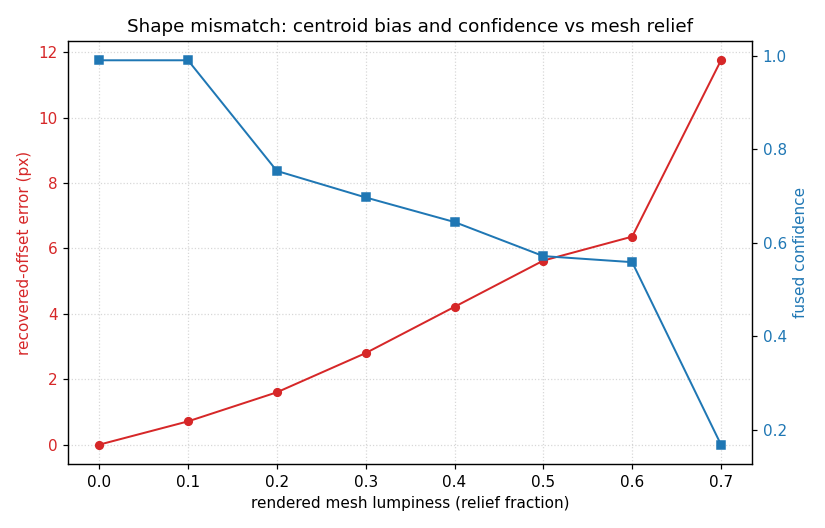
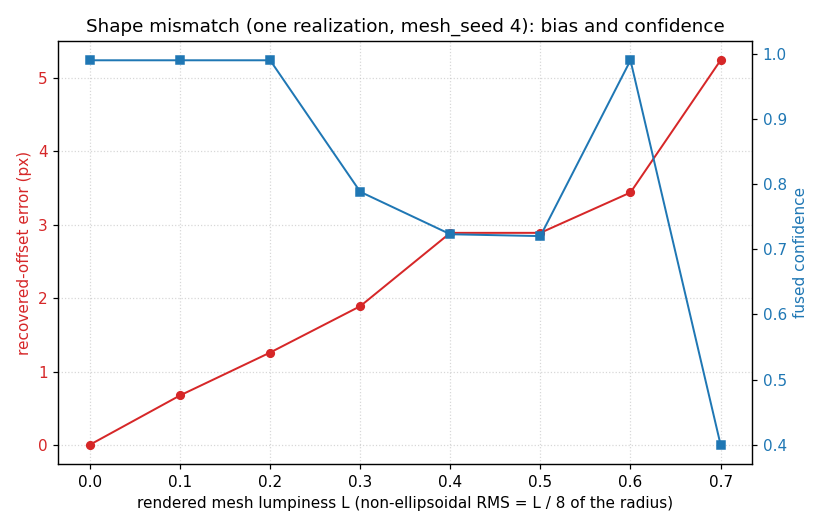
test(sim): name the realization in mesh figures
mesh_irregularity.png plots one mesh realization's walk, so its title
now names the base scene's mesh_seed (read from the scene the results
were run on), and its axis label states what lumpiness means (a
non-ellipsoidal RMS of L / 8 of the radius) in place of "relief
fraction". The figure is redrawn from seed 4's walk.

mesh_pose_disagreement.png drew its line through the 55-degree step,
where the limb returned no fix. The failed step is now a NaN in the
series, so the line stops at 20 degrees and the 75-degree point stands
alone beside the dashed failure marker. The pose sweep's rows are
unchanged (0.18, 1.00, 1.20 px, failed, 4.53 px).

Refs #626

Claude-Session: https://claude.ai/code/session_01E5aE1XPs7AyKdqEFhiSsyU

diff --git a/tests/integration/sim_sweep_plots.py b/tests/integration/sim_sweep_plots.py
@@ -18,7 +18,10 @@ import matplotlib
 matplotlib.use('Agg')
 import matplotlib.pyplot as plt
 
+from spindoctor.sim.scene import load_sim_scene
+
 _RESULTS_ROOT = Path(__file__).parent / 'sim_sweeps' / 'results'
+_SCENES_ROOT = Path(__file__).parent / 'sim_scenes'
 _FIGURES_ROOT = Path(__file__).parent.parent.parent / 'docs' / 'simulator_report' / '_figures'
 
 # Technique -> (fine sweep, wide sweep, marker, label) for the offset figures.
@@ -38,6 +41,13 @@ def _load(name: str) -> list[dict[str, Any]]:
     if not path.is_file():
         return []
     return list(json.loads(path.read_text())['rows'])
+
+
+def _base_mesh_seed(name: str) -> int:
+    """Return the first body's ``mesh_seed`` in a sweep result's base scene."""
+    base = json.loads((_RESULTS_ROOT / f'{name}.json').read_text())['base_scene']
+    scene = load_sim_scene(_SCENES_ROOT / base)
+    return int(scene['bodies'][0]['mesh_seed'])
 
 
 def _xy(rows: list[dict[str, Any]], key: str) -> tuple[list[float], list[float]]:
@@ -118,10 +128,11 @@ def _mesh_irregularity_figure() -> None:
     """Plot the shape-mismatch centroid bias and confidence vs mesh relief.
 
     The navigator predicts the smooth (zero-relief) limit of the rendered mesh,
-    so each step widens a pure shape mismatch.  The recovered-offset error -- the
-    centroid bias the ellipsoidal model cannot remove -- grows with the rendered
-    relief while the fused confidence falls, the regime the
-    ``phase_irregularity_factor`` term is meant to capture.
+    so each step widens a pure shape mismatch, the regime the
+    ``phase_irregularity_factor`` term is meant to capture.  The sweep walks one
+    mesh realization (the base scene's ``mesh_seed``), so the curves are that
+    shape's recovered-offset error and fused confidence; the title names the
+    seed.
     """
     rows = _load('irregularity_shape_mismatch')
     xs, errs = _xy(rows, 'offset_error_px')
@@ -131,7 +142,7 @@ def _mesh_irregularity_figure() -> None:
     conf_y = [r['confidence'] for r in rows if r.get('confidence') is not None]
     fig, ax = plt.subplots(figsize=(7.5, 4.8))
     ax.plot(xs, errs, marker='o', ms=5, lw=1.3, color='tab:red', label='offset error')
-    ax.set_xlabel('rendered mesh lumpiness (relief fraction)')
+    ax.set_xlabel('rendered mesh lumpiness L (non-ellipsoidal RMS = L / 8 of the radius)')
     ax.set_ylabel('recovered-offset error (px)', color='tab:red')
     ax.tick_params(axis='y', labelcolor='tab:red')
     ax.grid(True, ls=':', alpha=0.5)
@@ -140,7 +151,8 @@ def _mesh_irregularity_figure() -> None:
         ax2.plot(conf_x, conf_y, marker='s', ms=5, lw=1.3, color='tab:blue', label='confidence')
         ax2.set_ylabel('fused confidence', color='tab:blue')
         ax2.tick_params(axis='y', labelcolor='tab:blue')
-    ax.set_title('Shape mismatch: centroid bias and confidence vs mesh relief')
+    seed = _base_mesh_seed('irregularity_shape_mismatch')
+    ax.set_title(f'Shape mismatch (one realization, mesh_seed {seed}): bias and confidence')
     fig.tight_layout()
     fig.savefig(_FIGURES_ROOT / 'mesh_irregularity.png', dpi=110)
     plt.close(fig)
@@ -158,18 +170,15 @@ def _mesh_pose_figure() -> None:
     if not rows:
         return
     true_pose = rows[0]['value']
-    solved = [
-        (r['value'] - true_pose, r['offset_error_px'])
-        for r in rows
-        if r.get('offset_error_px') is not None
-    ]
     failed = [r['value'] - true_pose for r in rows if r.get('offset_error_px') is None]
-    if not solved:
+    if len(failed) == len(rows):
         return
+    # A failed step is a NaN, which breaks the line there: no segment is drawn
+    # through a pose at which the limb returned no fix.
+    xs = [r['value'] - true_pose for r in rows]
+    ys = [float('nan') if r.get('offset_error_px') is None else r['offset_error_px'] for r in rows]
     fig, ax = plt.subplots(figsize=(7.5, 4.8))
-    ax.plot(
-        *zip(*solved, strict=True), marker='^', ms=6, lw=1.3, color='tab:green', label='limb solved'
-    )
+    ax.plot(xs, ys, marker='^', ms=6, lw=1.3, color='tab:green', label='limb solved')
     for x in failed:
         ax.axvline(x, color='tab:gray', ls='--', alpha=0.6)
     if failed:
